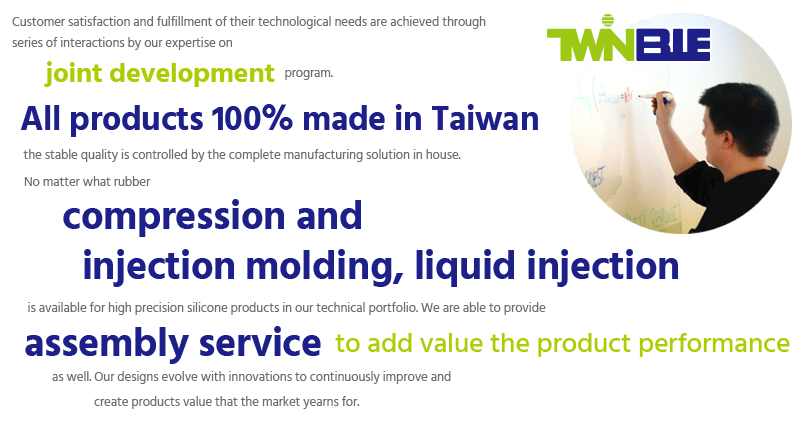
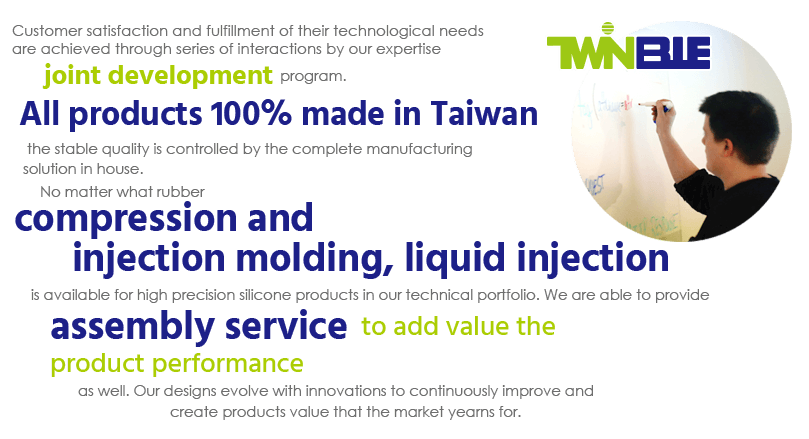
頁面修改 #20160521

diff --git a/css/animate.css b/css/animate.css
@@ -50,6 +50,15 @@ Copyright (c) 2015 Daniel Eden
 -moz-animation-duration: 1s;
      animation-duration: 1s}
 
+.fadeIn-home {    
+-webkit-animation-name: fadeIn;
+        animation-name: fadeIn;
+-webkit-animation-delay:2s;
+        animation-delay:2s;	
+-webkit-animation-duration: 2s;
+-moz-animation-duration: 2s;
+     animation-duration: 2s}
+
 
 
 @-webkit-keyframes fadeInUp {
@@ -84,24 +93,24 @@ Copyright (c) 2015 Daniel Eden
 .HomeUp-01 {
 -webkit-animation-name: fadeInUp;
         animation-name: fadeInUp;
--webkit-animation-delay:4s;
-        animation-delay:4s;	
+-webkit-animation-delay:5s;
+        animation-delay:5s;	
 -webkit-animation-duration: 1s;
 -moz-animation-duration: 1s;
      animation-duration: 1s}
 .HomeUp-02 {
 -webkit-animation-name: fadeInUp;
         animation-name: fadeInUp;
--webkit-animation-delay:5s;
-        animation-delay:5s;	
+-webkit-animation-delay:6s;
+        animation-delay:6s;	
 -webkit-animation-duration: 1s;
 -moz-animation-duration: 1s;
      animation-duration: 1s}
 .HomeUp-03 {
 -webkit-animation-name: fadeInUp;
         animation-name: fadeInUp;
--webkit-animation-delay:6s;
-        animation-delay:6s;	
+-webkit-animation-delay:7s;
+        animation-delay:7s;	
 -webkit-animation-duration: 1s;
 -moz-animation-duration: 1s;
      animation-duration: 1s}
@@ -255,9 +264,9 @@ Copyright (c) 2015 Daniel Eden
   animation-name: bounceIn;
 -webkit-animation-delay:1s;
         animation-delay:1s;	
--webkit-animation-duration: 2s;
--moz-animation-duration: 2s;
-     animation-duration: 2s     
+-webkit-animation-duration: 1s;
+-moz-animation-duration: 1s;
+     animation-duration: 1s     
 }
 
 @-webkit-keyframes flipInX {
@@ -326,13 +335,23 @@ Copyright (c) 2015 Daniel Eden
   }
 }
 
-.flipInX {
+.flipInX-01 {
   -webkit-backface-visibility: visible !important;
   backface-visibility: visible !important;
   -webkit-animation-name: flipInX;
   animation-name: flipInX;
-  -webkit-animation-delay:2s;
-        animation-delay:2s;	
+  -webkit-animation-delay:3s;
+        animation-delay:3s;	
+-webkit-animation-duration: 2s;
+-moz-animation-duration: 2s;
+     animation-duration: 2s}
+.flipInX-02 {
+  -webkit-backface-visibility: visible !important;
+  backface-visibility: visible !important;
+  -webkit-animation-name: flipInX;
+  animation-name: flipInX;
+  -webkit-animation-delay:4s;
+        animation-delay:4s;	
 -webkit-animation-duration: 2s;
 -moz-animation-duration: 2s;
      animation-duration: 2s}

diff --git a/css/xuedesign-home_201605.css b/css/xuedesign-home_201605.css
@@ -3,7 +3,7 @@
 * @project    Twinble
 * @Author     Elmo Wu <hello@xuedesign.tw>
 * @copyright  2016 xuedesign studio
-* @version    v1.5 - 201605
+* @version    v2 - 201605
 *
 **/
 
@@ -80,27 +80,43 @@ img::-moz-selection { background: transparent}
     background: url(../images/pic_man.png) no-repeat;
     background-position: 65px 63px}
 #banner h1,
-#banner h2{
+#banner h2,
+#point{
     display: block;
     position: absolute;
     text-indent: 100%;
     white-space: nowrap;
     overflow: hidden}
 #banner h1{
-    top:33px;
-    right:110px;
-    width: 509px;
-    height: 161px;
+    top:66px;
+    right:131px;
+    z-index: 99;
+    width: 404px;
+    height: 168px;
     background: url(../images/pic_homelogo.png) no-repeat}
-#banner h2{
-    top:227px;
+#point{
+    top:10px;
+    right:30px;
+    width: 323px;
+    height: 401px;
+    background: url(../images/bg_homepoint.png) no-repeat}
+#banner .slogan-01{
+    top:242px;
+    right:131px;
+    z-index: 100;
+    width: 510px;
+    height: 153px;
+    background: url(../images/pic_homeslogan-01.png) no-repeat}
+#banner .slogan-02{
+    top:396px;
     right:105px;
-    width: 505px;
-    height: 190px;
-    background: url(../images/pic_homeslogan.png) no-repeat}
+    z-index: 100;
+    width: 520px;
+    height: 112px;
+    background: url(../images/pic_homeslogan-02.png) no-repeat}
 #banner ul{
     display: block;
-    padding: 460px 0 150px 520px}
+    padding: 520px 0 150px 520px}
 #banner .nav-01,
 #banner .nav-02,
 #banner .nav-03{

diff --git a/index.html b/index.html
@@ -48,8 +48,10 @@ j=d.createElement(s),dl=l!='dataLayer'?'&l='+l:'';j.async=true;j.src=
                     </ul>
                 </div>
                 <div id="banner">
-                   <h1 class="animated bounceIn">Twinble,A solution provider of rubber technology</h1>
-                   <h2 class="animated flipInX">Make Different,No Boundary</h2>
+                   <h1 class="animated fadeIn-home">Twinble,A solution provider of rubber technology</h1>
+                   <div id="point" class="animated bounceIn"></div>
+                   <h2 class="slogan-01 animated flipInX-01">Make Different</h2>
+                    <h2 class="slogan-02 animated flipInX-02">No Boundary</h2>
                    <nav>
                        <ul>
                            <li class="nav-01 animated HomeUp-01">

diff --git a/css/xuedesign_201605.css b/css/xuedesign_201605.css
@@ -154,7 +154,6 @@ header,
     text-shadow: 2px 2px 0 #fff, 0 0 20px #fff}
 #banner h3 span{ padding-left: 105px}
 .sub-slogan-01,
-.sub-slogan-02,
 .sub-slogan-04,
 .sub-slogan-05,
 .sub-slogan-06,
@@ -167,6 +166,7 @@ header,
     text-indent: 100%;
     white-space: nowrap;
     overflow: hidden}
+.sub-slogan-02,
 .sub-slogan-03{
     width: 642px;
     height: 248px;
@@ -510,9 +510,13 @@ header,
     font-weight: bold;
     line-height: 1.125em;
     color: #202389}
+#box_partnumber h5{
+    background: url(../images/icon_ppont.png) 0 1px no-repeat;
+    padding-left: 47px}
 #box_health h4,
 #box_life h4{
-    padding:40px 0 0  20px}
+    padding:40px 0 0  47px;
+    background: url(../images/icon_ppont.png) 0 42px no-repeat}
 /*#box_partnumber h5{
     font-size: 1.125em;
     font-weight: bold;
